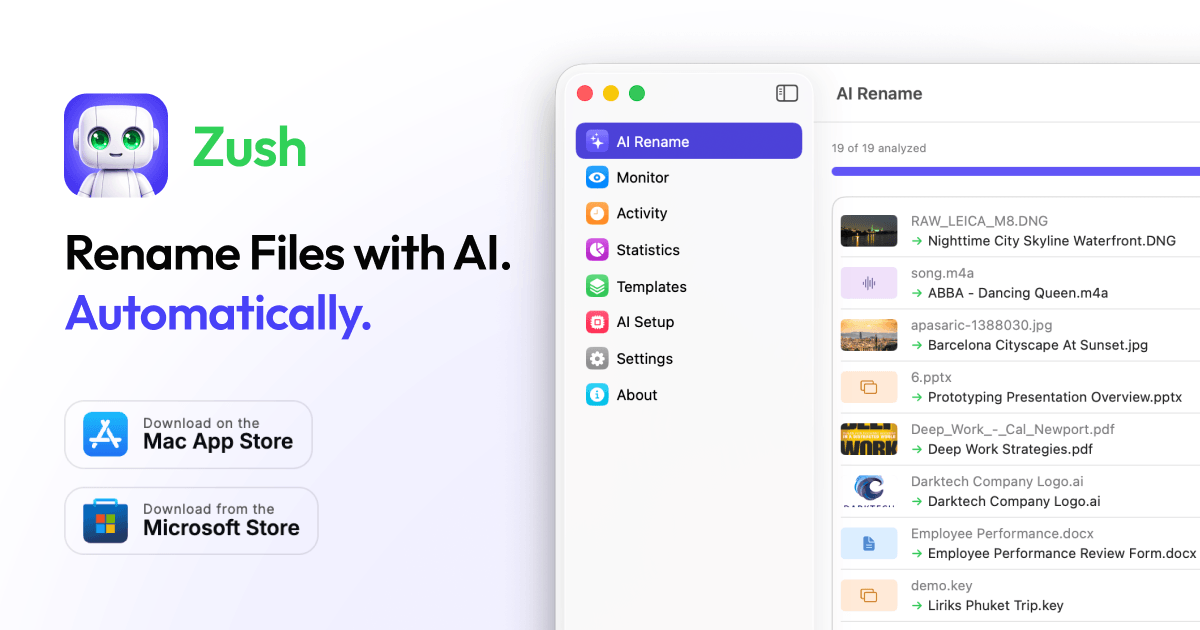
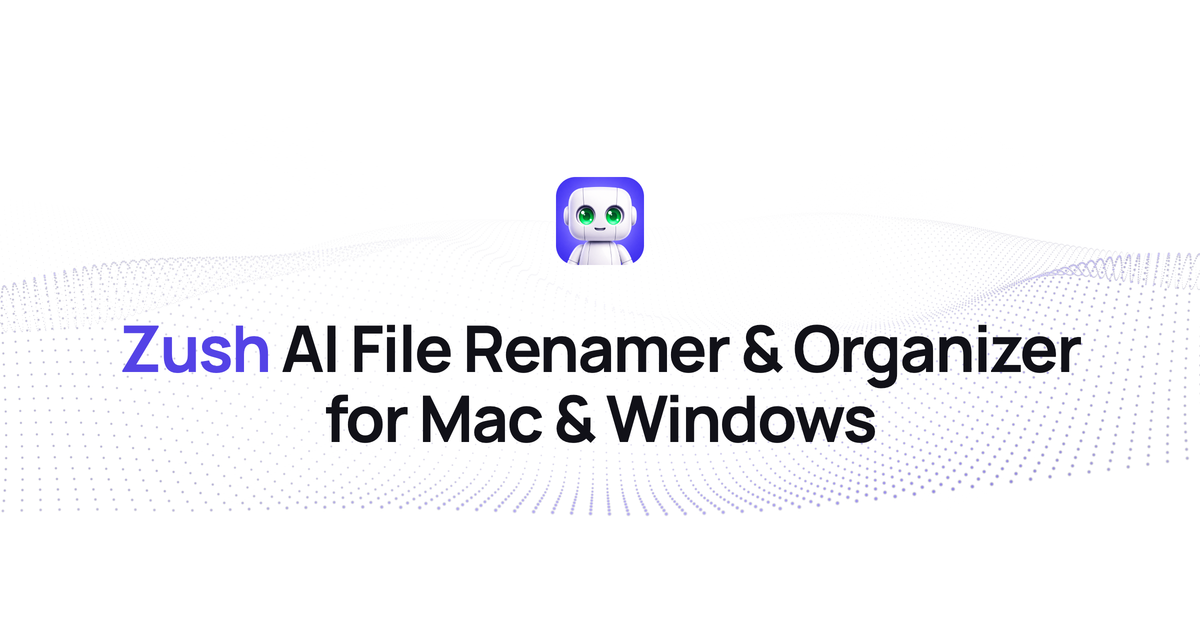
design(og): hero-style site card and a share card per blog post
- Site card (public/og-image.png): the homepage hero as a still frame:
  the same point-wave script, theme tokens from _variables.scss and the
  English hero title from copy.ts. No store buttons.
- Every post, in every locale, gets its own 1200×630 card: the post's
  cover motif beside its title in the post's language (RTL for Arabic,
  long titles step down to fit). Cards live in src/assets/blog-og and
  reach og:image / twitter:image with hashed URLs, so shares refresh when
  a card changes; posts without a card keep the site card.
- `pnpm og:images [site|slug...]` renders them; the cover motifs and the
  headless renderer are shared with `pnpm blog:covers`.

SEO snapshot: only og/twitter image tags change, on the 290 post pages.

diff --git a/src/data/blogOgImages.ts b/src/data/blogOgImages.ts
@@ -1,0 +1,22 @@
+import type { ImageMetadata } from 'astro';
+import { SITE_ORIGIN } from '@/seo/config';
+
+// Open Graph cards rendered by `pnpm og:images` (scripts/og-images): one per
+// post and locale, keyed by the post's own slug.
+const ogImageModules = import.meta.glob<{ default: ImageMetadata }>(
+  '/src/assets/blog-og/*.jpg',
+  { eager: true },
+);
+
+const BLOG_OG_IMAGES = Object.fromEntries(
+  Object.entries(ogImageModules).map(([filePath, module]) => [
+    filePath.split('/').pop()?.replace(/\.jpg$/, ''),
+    module.default,
+  ]),
+) as Record<string, ImageMetadata>;
+
+/** Absolute URL of the post's share card; undefined falls back to the site card. */
+export function getBlogOgImageUrl(slug: string): string | undefined {
+  const image = BLOG_OG_IMAGES[slug];
+  return image ? new URL(image.src, SITE_ORIGIN).href : undefined;
+}
